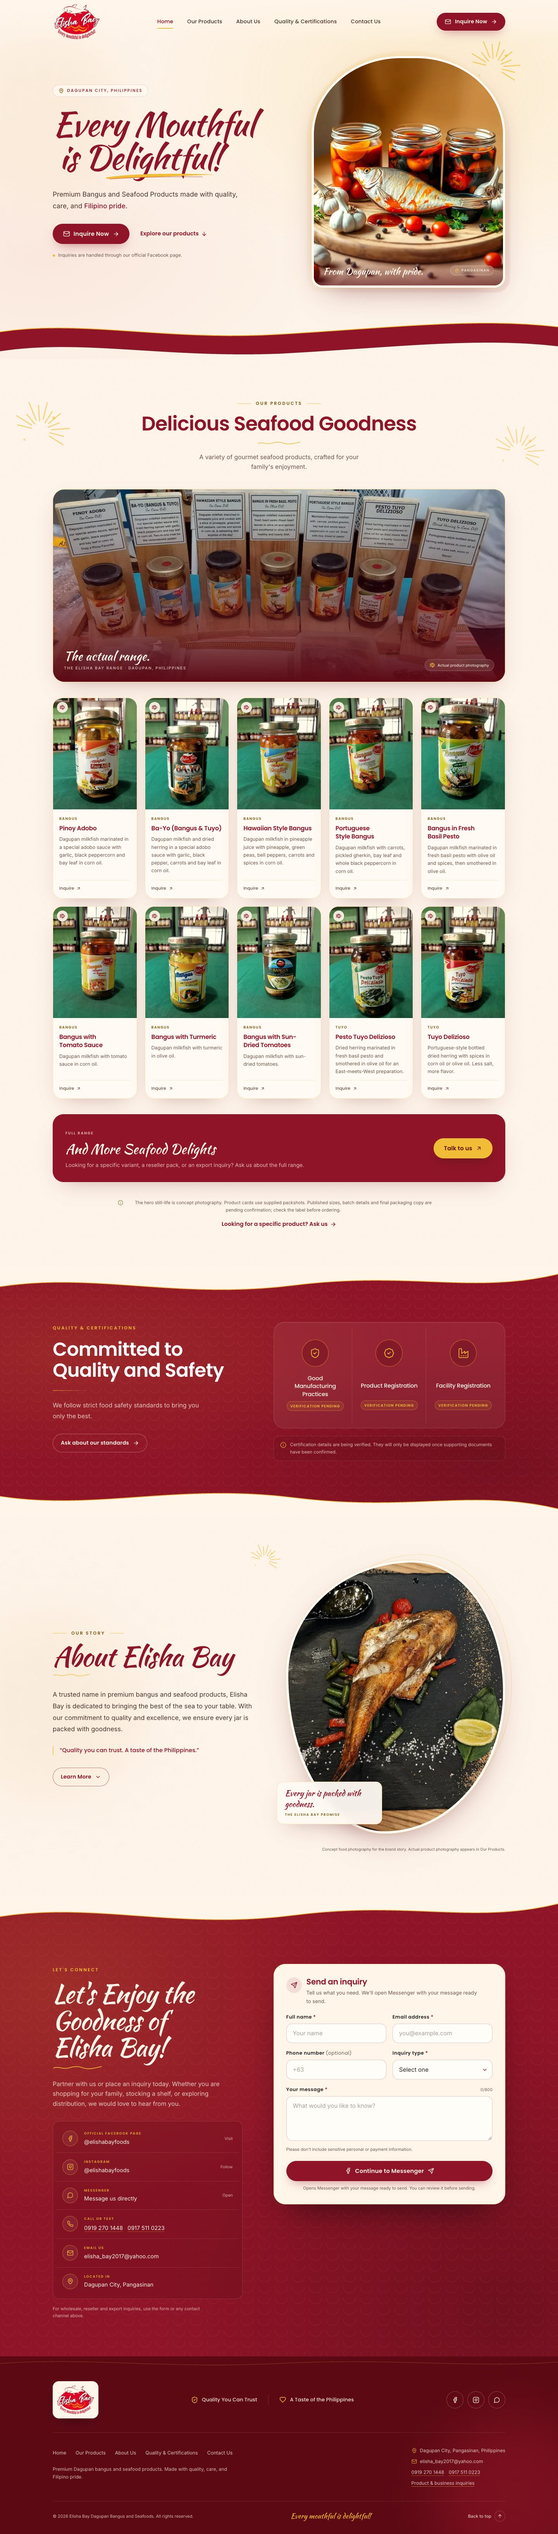
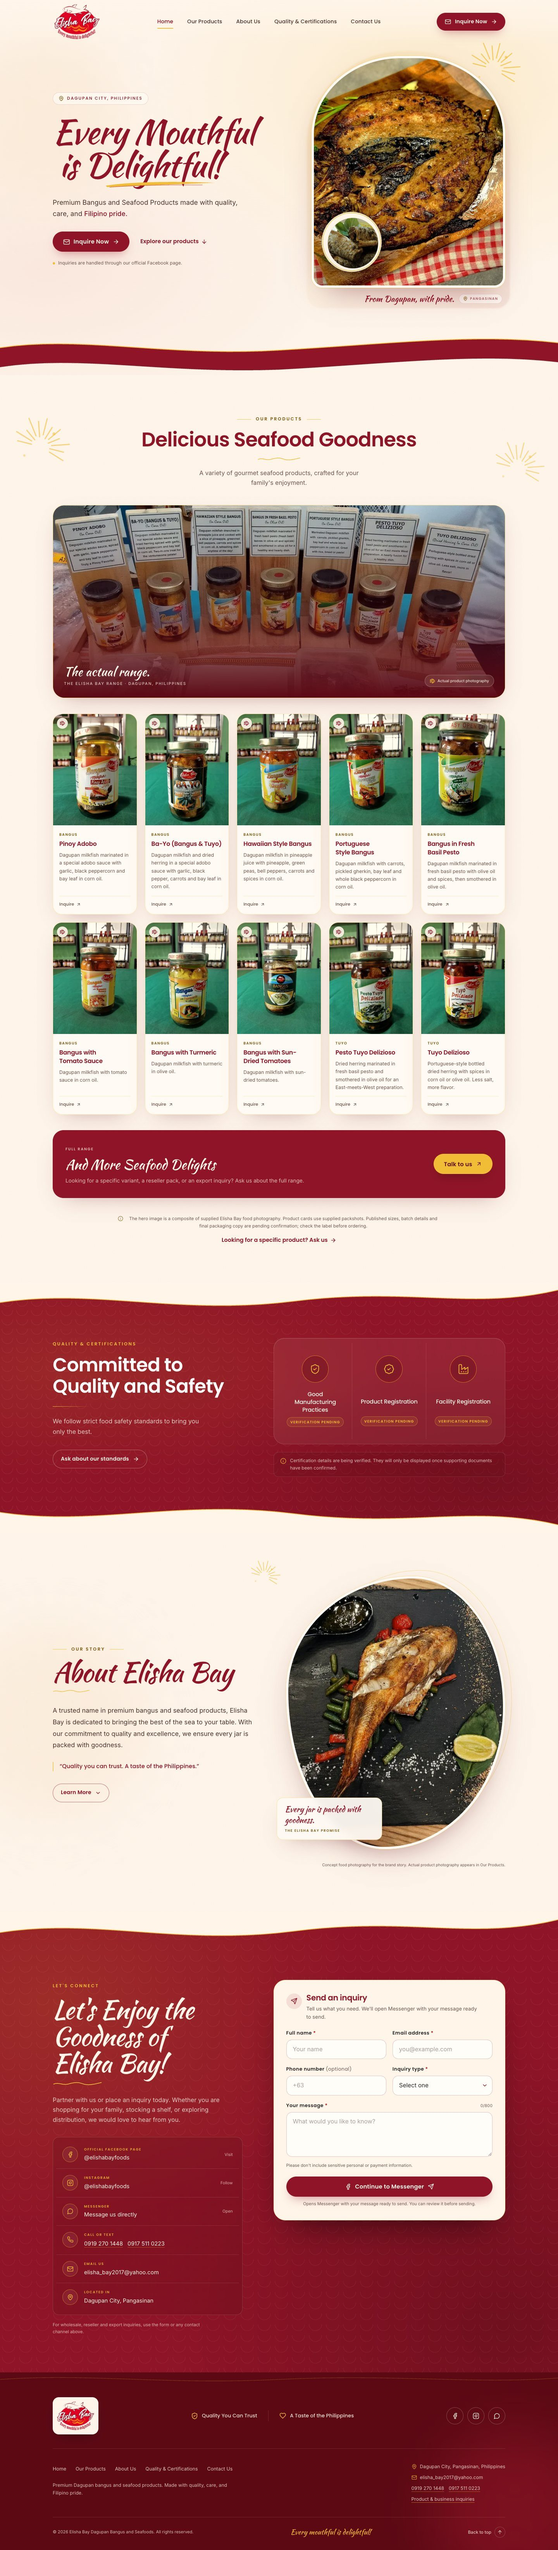
feat(hero): combine supplied bangus and tuyo photography

diff --git a/src/components/HeroSection.tsx b/src/components/HeroSection.tsx
@@ -82,34 +82,30 @@ export function HeroSection() {
                 <picture>
                   <source
                     type="image/webp"
-                    srcSet="/images/hero-jars-800.webp 800w, /images/hero-jars-1200.webp 1200w"
+                    srcSet="/images/hero-bangus-tuyo-800.webp 800w, /images/hero-bangus-tuyo-1200.webp 1200w"
                     sizes="(min-width: 1024px) 44vw, (min-width: 640px) 80vw, 92vw"
                   />
                   <img
-                    src="/images/hero-jars-1200.jpg"
-                    alt="Three glass jars of preserved bangus in tomato sauce, olive oil, and soy sauce, arranged on a wooden board with garlic and tomatoes"
+                    src="/images/hero-bangus-tuyo-1200.jpg"
+                    alt="Grilled Elisha Bay bangus steak on a wooden board, with a circular inset of tuyo in olive oil and fresh basil"
                     width={1200}
-                    height={1200}
+                    height={1440}
                     fetchPriority="high"
                     decoding="async"
-                    className="aspect-[5/6] h-full w-full object-cover object-[50%_54%] sm:aspect-[1/1] lg:aspect-[5/6]"
+                    className="aspect-[5/6] h-full w-full object-cover object-[50%_50%]"
                   />
                 </picture>
-                <div
-                  aria-hidden="true"
-                  className="pointer-events-none absolute inset-x-0 bottom-0 h-32 bg-gradient-to-t from-burgundy-deep/65 via-burgundy-deep/15 to-transparent"
-                />
-                <figcaption className="absolute inset-x-0 bottom-0 flex items-end justify-between gap-3 px-5 pb-5 pt-10 sm:px-6 sm:pb-6">
-                  <span className="font-script text-[1.3rem] leading-none text-cream sm:text-[1.5rem]">
-                    From Dagupan, with pride.
-                  </span>
-                  <span className="mb-0.5 inline-flex items-center gap-1.5 rounded-full border border-cream/30 bg-cream/10 px-2.5 py-1 font-display text-[0.56rem] font-medium uppercase tracking-[0.16em] text-cream/95 backdrop-blur-sm">
-                    <MapPin className="h-3 w-3 text-gold" aria-hidden="true" />
-                    Pangasinan
-                  </span>
-                </figcaption>
               </div>
 
+              <figcaption className="mt-4 flex items-center justify-end gap-3 px-2">
+                <span className="font-script text-[1.2rem] leading-none text-burgundy sm:text-[1.35rem]">
+                  From Dagupan, with pride.
+                </span>
+                <span className="inline-flex items-center gap-1.5 rounded-full border border-burgundy/15 bg-cream-soft/80 px-2.5 py-1 font-display text-[0.56rem] font-medium uppercase tracking-[0.16em] text-burgundy/80">
+                  <MapPin className="h-3 w-3 text-gold-deep" aria-hidden="true" />
+                  Pangasinan
+                </span>
+              </figcaption>
             </figure>
           </div>
         </div>

diff --git a/tests/e2e/landing.spec.ts b/tests/e2e/landing.spec.ts
@@ -88,7 +88,7 @@ test.describe('Elisha Bay landing page', () => {
     ).toBeVisible();
     await expect(cards.first()).toContainText(/special adobo sauce/);
     await expect(
-      page.getByText(/Product cards use supplied packshots/),
+      page.getByText(/The hero image is a composite of supplied Elisha Bay food photography/),
     ).toBeVisible();
     await expect(
       page.getByRole('link', { name: 'Elisha Bay on Facebook' }),
@@ -117,7 +117,7 @@ test.describe('Elisha Bay landing page', () => {
     expect(metadata.structuredData).toContain('+639192701448');
     expect(metadata.structuredData).toContain('instagram.com/elishabayfoods');
     expect(metadata.manifest).toBe('/site.webmanifest');
-    expect(metadata.heroPreload).toContain('hero-jars');
+    expect(metadata.heroPreload).toContain('hero-bangus-tuyo');
     for (const image of metadata.images) {
       expect(image.alt).toBeTruthy();
       expect(image.width).toBeTruthy();
@@ -131,6 +131,7 @@ test.describe('Elisha Bay landing page', () => {
       '/logo/elisha-bay-logo-512.webp',
       '/images/elisha-bay-range-1200.webp',
       '/images/product-pinoy-adobo-800.webp',
+      '/images/hero-bangus-tuyo-1200.webp',
       '/apple-touch-icon.png',
       '/icon-192.png',
       '/icon-512.png',

diff --git a/index.html b/index.html
@@ -31,7 +31,7 @@
     <meta property="og:image" content="/og-image.jpg" />
     <meta property="og:image:width" content="1200" />
     <meta property="og:image:height" content="630" />
-    <meta property="og:image:alt" content="Glass jars of Elisha Bay seafood on a wooden board with garlic and tomatoes" />
+    <meta property="og:image:alt" content="Elisha Bay logo beside a grilled bangus dish with a circular tuyo detail" />
     <meta name="twitter:card" content="summary_large_image" />
     <meta name="twitter:title" content="Elisha Bay | Premium Dagupan Bangus &amp; Seafoods" />
     <meta
@@ -49,8 +49,8 @@
     <link
       rel="preload"
       as="image"
-      href="/images/hero-jars-1200.webp"
-      imagesrcset="/images/hero-jars-800.webp 800w, /images/hero-jars-1200.webp 1200w"
+      href="/images/hero-bangus-tuyo-1200.webp"
+      imagesrcset="/images/hero-bangus-tuyo-800.webp 800w, /images/hero-bangus-tuyo-1200.webp 1200w"
       imagesizes="(min-width: 1024px) 44vw, (min-width: 640px) 80vw, 92vw"
       fetchpriority="high"
     />

diff --git a/src/data/products.ts b/src/data/products.ts
@@ -179,4 +179,4 @@ export const products: Product[] = [
 ];
 
 export const productDisclaimer =
-  'The hero still-life is concept photography. Product cards use supplied packshots. Published sizes, batch details and final packaging copy are pending confirmation; check the label before ordering.';
+  'The hero image is a composite of supplied Elisha Bay food photography. Product cards use supplied packshots. Published sizes, batch details and final packaging copy are pending confirmation; check the label before ordering.';

diff --git a/_docs/handoff.md b/_docs/handoff.md
@@ -16,8 +16,8 @@ Last updated: 2026-11-16 · Status: **live baseline, content pending**
 | Repo | local git on `main`, bootstrap commits complete, **no remote yet** |
 | In flight | `feat/logo-integration` (logo) → `feat/real-products-contacts` (products/contacts) → `feat/product-card-images` (packshots), all awaiting human review/merge in that order |
 | Tracker | no remote/issue tracker yet; `_docs/backlog.md` is the local queue |
-| Blocking on you | printed sizes/final packaging copy, a real hero shoot, About approval, certification documents, street address, domain |
-| Next action | confirm printed sizes/final packaging copy, commission the hero shoot and collect the remaining About/certification/address facts; the logo, ten products, packshots and contact channels are integrated |
+| Blocking on you | printed sizes/final packaging copy, About approval, certification documents, street address, domain |
+| Next action | confirm printed sizes/final packaging copy and collect the remaining About/certification/address facts; the logo, ten products, packshots, combined hero and contact channels are integrated |
 
 ## 2. What we are building and why it has this shape
 
@@ -37,7 +37,7 @@ are in [AGENTS.md](../AGENTS.md).
 | D1 | Vite + React + TypeScript + Tailwind v4 | Next.js, plain HTML | The site is a single static landing page; Vite is the simplest build with strong typing and component reuse. |
 | D2 | Inquiry via official Messenger handoff | Backend email form, invented contact data | No backend in this phase; Messenger remains the handoff. Email/phone are now displayed as alternative confirmed channels. |
 | D3 | Certifications withheld with neutral “Verification pending” slots | Display claimed FDA/US FDA badges | The handoff requires documentary confirmation; fabricating trust marks is unacceptable. |
-| D4 | Concept hero/About photography with visible disclosure; product cards use supplied packshots and signs | Present generated packaging as real Elisha Bay assets | Official assets arrived later; the hero stays concept until a real shoot, but the cards are actual. |
+| D4 | Hero composite from two supplied food photographs; About remains concept; product cards use supplied packshots | Present generated packaging as real Elisha Bay assets | Official assets arrived later; the hero and cards are actual, and the About image is disclosed. |
 | D5 | Human merge/deploy gate | Agent merges or deploys | The repo has no protected remote yet and production is irreversible; a human owns release. |
 | D6 | Kaushan + Poppins + Inter | Single generic sans or a stock template | Preserves the warm Filipino editorial identity; script is restricted to statements. |
 | D7 | Official supplied logo used directly (transparent variants for web) | Keep the earlier custom crest | The brand owner supplied the real mark; it is the identity, not a placeholder. |
@@ -79,7 +79,7 @@ PASS/FAIL; the human owner merges and deploys; QA re-checks main. See [process.m
 | O3 | What is the official street address? | Human / Elisha Bay | open; phones, email, Facebook/Instagram are supplied |
 | O4 | Is the About paragraph approved as written? | Human | open |
 | O5 | What is the production domain, and where will the site be hosted? | Human | open |
-| O7 | Who will shoot the real hero still-life and individual product packshots? | Human | open |
+| O7 | Is a dedicated art-directed hero photograph still desired? | Human | optional; the current hero is a supplied-photo composite |
 | O6 | Should the form later deliver to email/CRM as well as Messenger? | Human | open |
 
 ## 7. Traps and lessons
@@ -88,8 +88,9 @@ PASS/FAIL; the human owner merges and deploys; QA re-checks main. See [process.m
   editing them to look complete without approval is a product defect.
 - **The “no FDA claim” test is intentional.** If certification documents arrive, update the spec,
   config and test together — do not silently weaken the assertion.
-- **The hero is still concept photography; the range photo is actual.** Do not describe the hero as
-  a packshot or reuse it as an individual product image. The products disclaimer states this.
+- **The hero is a composite of supplied food photographs; the range and cards are actual.** Do not
+  describe the hero as a packshot or reuse it as an individual product image. The products
+  disclaimer states this.
 - **The product range photo is a trade-show display.** It is cropped/colour-graded and the visible
   third-party leaflets are excluded. Do not add certification marks from that scene.
 - **Product descriptions come from the range signs; packshots are supplied.** Do not add sizes,
@@ -116,8 +117,8 @@ PASS/FAIL; the human owner merges and deploys; QA re-checks main. See [process.m
 
 ## 8. Next action
 
-Open the next content issue for **remaining facts and a hero shoot**: printed sizes/final packaging
-copy, About approval, certification documents, the street address, the production domain and a
-styled hero photograph. The logo, ten products, packshots and phone/email/Instagram are integrated;
-do not fill the remaining gaps with guesses. If a purely technical task is preferred first, set up the remote
+Open the next content issue for **remaining facts**: printed sizes/final packaging copy, About
+approval, certification documents, the street address and the production domain. A dedicated hero
+reshoot is optional. The logo, ten products, packshots, combined hero and phone/email/Instagram are
+integrated; do not fill the remaining gaps with guesses. If a purely technical task is preferred first, set up the remote
 and branch protection with the human owner; the workflow is already documented for that mode.

diff --git a/README.md b/README.md
@@ -62,7 +62,7 @@ cart, payment, backend or checkout — this phase is intentionally a brand/lead-
 ```text
 public/
   logo/                   official transparent lockup (256/512/1024 WebP + PNG fallback)
-  images/                 10 real packshots, range photo, concept hero/about, paper grain
+  images/                 10 real packshots, combined hero, range photo, concept About, paper grain
   favicon-32.png          logo-derived favicon
   apple-touch-icon.png    logo-derived Apple icon
   icon-192.png
@@ -124,7 +124,7 @@ The **official supplied Elisha Bay logo** is integrated from `assets/brand/elish
 
 `src/data/products.ts` contains the ten products shown in the supplied packshots and range signs: **Pinoy Adobo, Ba-Yo, Hawaiian Style Bangus, Portuguese Style Bangus, Bangus in Fresh Basil Pesto, Bangus with Tomato Sauce, Bangus with Turmeric, Bangus with Sun-Dried Tomatoes, Pesto Tuyo Delizioso** and **Tuyo Delizioso**. Each card uses its supplied packshot; the range photograph opens the section and a full-range enquiry strip closes it.
 
-Printed sizes, batch details, exact packaging copy and prices are still pending confirmation and are intentionally not repeated in text. The hero still-life remains concept photography; the range and card packshots are actual.
+Printed sizes, batch details, exact packaging copy and prices are still pending confirmation and are intentionally not repeated in text. The hero is a composite of two supplied food photographs; the range and card packshots are actual.
 
 ### About copy
 
@@ -162,10 +162,10 @@ There is no server-side form submission in this phase. If email notification or 
 - Official Elisha Bay logo: supplied by the brand owner; transparent, icon and share variants derived from the supplied file.
 - Product range photograph: supplied by the brand owner (`assets/brand/elisha-bay-products-lineup-2026.jpg`); cropped and color-graded for the Products section. The trade-show context and visible third-party leaflets are excluded from the site crop.
 - Product card packshots: supplied by the brand owner (`assets/brand/products/`); lightly graded and cropped to a 3:4 card frame. The green factory/display background is part of the supplied photographs.
-- Hero still-life: generated concept photography, not actual Elisha Bay packaging. It remains the interim hero until a styled brand shoot is available.
+- Hero image: a composite of two supplied photographs (`bangus-steak.jpg` and `tuyo-closeup.jpg`), colour-graded and composited with a circular tuyo detail. The baked-in bottle label and logo in the dish photograph are cropped out.
 - About food photograph: [Unsplash image source](https://images.unsplash.com/photo-1644784643137-b9073dd262f6), used under the Unsplash License. Confirm and add photographer credit before launch.
 
-The product disclaimer in the UI states that the hero still-life is concept photography, the cards use supplied packshots, and sizes/batch details are pending confirmation. Replace the concept hero with approved brand photography before launch.
+The product disclaimer in the UI states that the hero is a composite of supplied food photography, the cards use supplied packshots, and sizes/batch details are pending confirmation.
 
 ---
 
@@ -201,7 +201,7 @@ Defined in `src/index.css`:
 ### Before launch checklist
 
 - [ ] Confirm the printed sizes, batch details and exact packaging copy (packshots are supplied; see [backlog](_docs/backlog.md)).
-- [ ] Commission the real hero still-life (three hero jars, label-forward, negative space for the headline).
+- [ ] Optional: commission a dedicated art-directed hero photograph; the current hero is a supplied-photo composite.
 - [ ] Approve or rewrite the About copy.
 - [ ] Confirm certification wording and documents; update or remove the “verification pending” slots.
 - [ ] Supply phone, email, and full address.

diff --git a/product-spec.md b/product-spec.md
@@ -3,7 +3,7 @@
 > A premium Filipino seafood brand landing page that builds trust and turns discovery into an
 > inquiry.
 
-Status: **live baseline** · Version: 1.3 · Owner: human owner · Last updated: 2026-11-16
+Status: **live baseline** · Version: 1.4 · Owner: human owner · Last updated: 2026-11-16
 
 This is the source of truth for behaviour. Code follows this document; when they disagree, one of
 them is a bug. Acceptance criteria here are what QA judges.
@@ -70,7 +70,7 @@ can start a relevant conversation.
 | Id | Criterion | Tag |
 | --- | --------- | --- |
 | US2-AC1 | Products shows the actual range photograph and ten product cards from `src/data/products.ts` (Pinoy Adobo, Ba-Yo, Hawaiian Style, Portuguese Style, Fresh Basil Pesto, Tomato Sauce, Turmeric, Sun-Dried Tomatoes, Pesto Tuyo, Tuyo Delizioso), followed by an “And More Seafood Delights” full-range CTA. | `e2e` |
-| US2-AC2 | The disclaimer is visible beneath the CTA: the hero still-life is concept photography; product cards use supplied packshots; published sizes, batch details and final packaging copy are pending. | `e2e` |
+| US2-AC2 | The disclaimer is visible beneath the CTA: the hero is a composite of supplied food photography; product cards use supplied packshots; published sizes, batch details and final packaging copy are pending. | `e2e` |
 | US2-AC3 | Activating a product card scrolls to Contact, sets inquiry type to “Product inquiry”, and pre-fills the message with that product name. | `e2e` |
 | US2-AC4 | Cards have a visible hover/focus state and remain operable by keyboard. | `manual` |
 | US2-AC5 | Each product card displays the supplied category, description and its own real packshot; no invented size, price or ingredient is introduced. | `e2e` + `manual` |
@@ -160,8 +160,8 @@ Any change to these shapes updates this section and the affected tests in the sa
 
 - Product names, descriptions and individual packshots are supplied by the brand. Printed sizes,
   prices, batch details and final packaging copy are still pending.
-- The hero still-life is concept photography, not an actual Elisha Bay packshot. The product-card
-  packshots and range photograph are actual.
+- The hero is a composite of two supplied food photographs (cooked bangus and tuyo), not a packaged
+  product shot. The product-card packshots and range photograph are actual.
 - About copy is proposed, not client-approved history.
 - Phone, email and Instagram are confirmed; the street address is still unknown.
 - Certification wording is withheld; the verification-pending UI is intentional.
@@ -173,6 +173,7 @@ Any change to these shapes updates this section and the affected tests in the sa
 
 | Version | Date | Change |
 | ------- | ---- | ------ |
+| 1.4 | 2026-11-16 | Replaced the concept hero with a composite of supplied cooked bangus and tuyo photography; moved the caption below the frame. |
 | 1.3 | 2026-11-16 | Added the ten supplied product packshots, the three additional products, responsive image cards and full-range CTA. |
 | 1.2 | 2026-11-16 | Added the seven supplied products/descriptions, actual range photograph, phone/email/Instagram contacts and the full-range enquiry card. |
 | 1.1 | 2026-11-16 | Integrated the supplied official Elisha Bay logo, transparent variants, app icons and share image. |

diff --git a/_docs/ai-usage-report.md b/_docs/ai-usage-report.md
@@ -3,6 +3,41 @@
 A session-by-session record of what AI produced and what a human or independent check verified.
 Append, newest first. Do not record “done” unless the evidence is named.
 
+## 2026-11-16 — Combined bangus + tuyo hero
+
+**Branch:** `feat/product-card-images` (stacked on the product/contact branch; unmerged)
+
+**Scope:** Replace the concept hero still-life with a composite of the two supplied food photographs,
+keeping the product cards and page content intact.
+
+**What AI produced**
+
+- A 1200×1440 hero composite: cooked bangus on a wooden board as the main image, with a circular
+  tuyo-in-oil detail at bottom-left, cream/gold ring and soft shadow.
+- The baked-in bottle label and Elisha Bay logo in the cooked-dish source were cropped out. Both
+  source photographs were colour-graded, gently sharpened and vignetted.
+- The hero caption was moved below the arch so it no longer overlaps the circular detail.
+- Updated hero preload, image srcSet, alt text, dimensions and QA assertions.
+- Product disclaimer now says the hero is a composite of supplied food photography, not concept or
+  packshot photography.
+
+**Builder verification**
+
+- `make verify` — typecheck, build and **14/14** Playwright tests passed.
+- axe WCAG A/AA: 0 violations at 1440px and 390px.
+- Hero checked at 1280, 1440 and 390 widths; caption below image, no overlap or overflow.
+
+**Independent QA**
+
+- Not yet run as a separate fresh-context session. This entry is engineering evidence, not a QA PASS.
+
+**Human verification required**
+
+- Approve the crop, the circular inset and the recipe/dish as representative of Elisha Bay.
+- Confirm that no bottle or third-party mark remains visible (the source’s bottle label and baked-in
+  logo were cropped out).
+- A dedicated art-directed hero shoot is optional; the current hero uses only supplied photographs.
+
 ## 2026-11-16 — Ten product packshots and card images
 
 **Branch:** `feat/product-card-images` (stacked on `feat/real-products-contacts`; unmerged)

diff --git a/AGENTS.md b/AGENTS.md
@@ -65,7 +65,7 @@ _docs/              process, roles, spec support, testing, handoff, backlog
 3. **Product data and packshots are supplied; sizes are not.** The ten product entries and images
    in `src/data/products.ts` come from the brand’s own range signs and packshots. Keep the
    disclaimer visible until printed sizes, batch details and final packaging copy are approved. Do
-   not reuse the generated hero as a product packshot.
+   not reuse the hero composite as an individual product packshot.
 4. **No e-commerce.** No cart, checkout, payment gateway, inventory or account system in this phase.
 5. **Use the confirmed contact channels.** Phone, email, Facebook, Instagram and Messenger are
    configured in `src/data/site.ts`; do not invent additional channels or a different form backend.
@@ -88,8 +88,8 @@ These are product requirements, not suggestions:
 
 - Product names, descriptions and individual packshots are supplied by the brand; printed sizes,
   batch details and final packaging copy are still pending.
-- The hero still-life is **concept photography**. The range photograph is actual product
-  photography; do not describe the hero as an actual packshot.
+- The hero is a **composite of supplied food photographs** (cooked bangus + tuyo). The range and
+  card photographs are actual product photography; do not describe the hero as a packshot.
 - The About paragraph is **proposed copy**, not verified history.
 - Phone, email, Facebook and Instagram are confirmed. The **street address is unknown**; do not fill
   it in.

diff --git a/_docs/backlog.md b/_docs/backlog.md
@@ -15,7 +15,7 @@ These block any honest launch. They are not “just copy”; they are the facts 
 | EB-003 | P0 | open | Human | Confirm certification wording and supply documents | Unblocks US3-AC1..4; do not change `credentialsVerified` before this |
 | EB-004 | P0 | partial | Human | Supply the official street address | Phone, email, Facebook and Instagram are supplied and wired |
 | EB-005 | P0 | open | Human | Confirm the live domain and hosting; make canonical/OG URLs absolute | Unblocks production SEO |
-| EB-008 | P0 | open | Human | Commission a real hero still-life (three label-forward jars, cream/wood, ingredients, copy space) | The current hero is concept; the ten packshots are supplied, and the trade-show display is not suitable as the hero |
+| EB-008 | P2 | done (branch) | Engineer | Build a hero from the supplied bangus and tuyo photographs | A dedicated reshoot is optional; the trade-show display is not used as the hero |
 | EB-006 | P1 | open | Human + PM | Complete an independent QA baseline of the current site | Run the QA role against `product-spec.md`; record the verdict |
 | EB-007 | P1 | open | Human | Create a remote repository, protect `main`, require CI, add the human merge gate | Process already documents the mode |
 

diff --git a/_docs/design-system.md b/_docs/design-system.md
@@ -110,10 +110,10 @@ Rules:
   fact. Use the placeholder state and flag it for human approval.
 - Product copy uses the supplied name, category, description and packshot. Do not add sizes, prices
   or ingredients that are not in the approved source; printed size/batch details are pending.
-- The hero still-life is concept photography; the range photograph is actual. Keep the distinction
-  clear in the product disclaimer and do not present the hero as a packshot.
+- The hero is a composite of supplied food photographs; the range and cards are actual. Keep the
+  distinction clear in the product disclaimer and do not present the hero as a packshot.
 - Contact channels use the confirmed phone/email/Facebook/Instagram data. The street address is
   withheld until supplied.
 - Errors say what happened and what to do next; they do not blame the user.
-- Keep disclosures legible: concept hero photography, pending packshots and concept About
-  photography are visible, not buried.
+- Keep disclosures legible: the supplied-photo hero, pending sizes and concept About photography are
+  visible, not buried.
